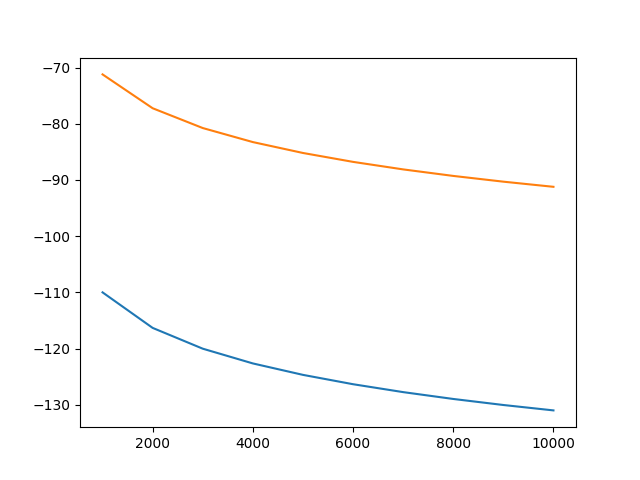
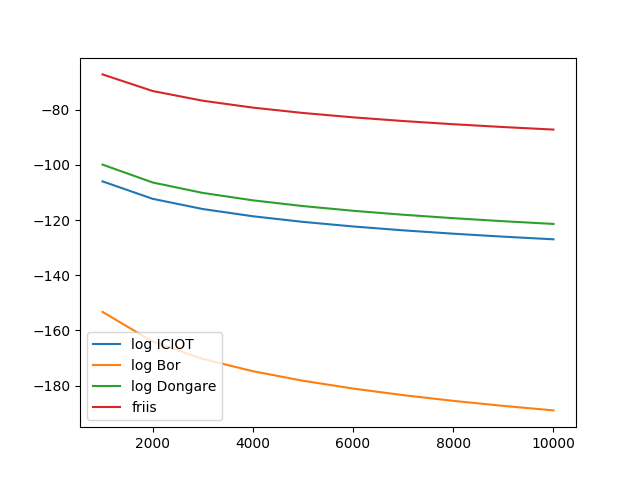
add more log prop models

diff --git a/propagation.py b/propagation.py
@@ -21,7 +21,7 @@ def FreeSpacePathLossModel(**kwargs):
 
 def LogDistancePathLossModel(**kwargs):
 	'''
-	Log Distance Path Loss Model
+	Log Distance Path Loss Model without the uncertainty
 
 	Args:
 		d: distance in m
@@ -29,20 +29,29 @@ def LogDistancePathLossModel(**kwargs):
 	Return:
 		path loss in dB at d
 	'''
-	if kwargs['d'] <= LogDistancePathLossModel.d0:
-		return LogDistancePathLossModel.PL0
-	PL = LogDistancePathLossModel.PL0 + 10 * LogDistancePathLossModel.delta * \
-		math.log10(kwargs['d'] / LogDistancePathLossModel.d0)
+	if kwargs['ver'] == 'ICIOT':
+		# Settings in the ICIOT paper
+		d0 = 1000 # Reference distance in m
+		PL0 = 130 # Reference path loss in dB
+		delta = 2.1 # Path loss exponent
+	elif kwargs['ver'] == 'Bor':
+		# Settings in the paper (Bor 2016) for indoor building
+		d0 = 40 # Reference distance in m
+		PL0 = 127.41 # Reference path loss in dB
+		delta = 3.57 # Path loss exponent
+	elif kwargs['ver'] == 'Dongare':
+		# Settings in Dongare's thesis based on CMU campus measurements
+		d0 = 140 # Reference distance in m
+		PL0 = 105.5729 # Reference path loss in dB
+		delta = 2.1495 # Path loss exponent
+	else:
+		logging.error('Non-supported log propagation model!')
+		return
+	if kwargs['d'] <= d0:
+		return PL0
+	PL = PL0 + 10 * delta * math.log10(kwargs['d'] / d0)
 	return PL
 
-# Settings in the ICIOT paper
-LogDistancePathLossModel.d0 = 1000 # Reference distance in m
-LogDistancePathLossModel.PL0 = 130 # Reference path loss in dB
-LogDistancePathLossModel.delta = 2.1 # Path loss exponent
-# Settings in the IPSN paper (indoor building)
-#LogDistancePathLossModel.d0 = 40 # Reference distance in m
-#LogDistancePathLossModel.PL0 = 127.41 # Reference path loss in dB
-#LogDistancePathLossModel.delta = 3.57 # Path loss exponent
 
 def GetRSSI(Ptx, PL):
 	'''
@@ -58,18 +67,29 @@ def GetRSSI(Ptx, PL):
 	Prx = Ptx + GetRSSI.Gtx + GetRSSI.Grx - PL
 	return Prx
 
-GetRSSI.Gtx = 0 # Transmission antenna gain
-GetRSSI.Grx = 0 # Reception antenna gain
+GetRSSI.Gtx = 2 # Transmission antenna gain
+GetRSSI.Grx = 2 # Reception antenna gain
 
-# Test and tune path loss model's parameter
-'''
-d = [1000, 2000, 3000, 4000, 5000, 6000, 7000, 8000, 9000, 10000]
-loss_log = [LogDistancePathLossModel(d=di) for di in d]
-Prx_log = [GetRSSI(20, lossi) for lossi in loss_log]
-loss_friis = [FreeSpacePathLossModel(d=di, f=868) for di in d]
-Prx_friis = [GetRSSI(20, lossi) for lossi in loss_friis]
-plt.figure()
-plt.plot(d, Prx_log, d, Prx_friis)
-plt.savefig('loss.png')
-plt.show()
-'''
+def main():
+	# Test and tune path loss model's parameter
+	d = [1000, 2000, 3000, 4000, 5000, 6000, 7000, 8000, 9000, 10000]
+	loss_log = [LogDistancePathLossModel(d=di, ver='ICIOT') for di in d]
+	Prx_log_ICIOT = [GetRSSI(20, lossi) for lossi in loss_log]
+	loss_log = [LogDistancePathLossModel(d=di, ver='Bor') for di in d]
+	Prx_log_Bor = [GetRSSI(20, lossi) for lossi in loss_log]
+	loss_log = [LogDistancePathLossModel(d=di, ver='Dongare') for di in d]
+	Prx_log_Dongare = [GetRSSI(20, lossi) for lossi in loss_log]
+	loss_friis = [FreeSpacePathLossModel(d=di, f=868) for di in d]
+	Prx_friis = [GetRSSI(20, lossi) for lossi in loss_friis]
+	plt.figure()
+	plt.plot(d, Prx_log_ICIOT, label='log ICIOT')
+	plt.plot(d, Prx_log_Bor, label='log Bor')
+	plt.plot(d, Prx_log_Dongare, label='log Dongare')
+	plt.plot(d, Prx_friis, label='friis')
+	plt.legend()
+	plt.savefig('loss.png')
+	plt.show()
+
+if __name__ == '__main__':
+	main()
+

diff --git a/main.py b/main.py
@@ -26,6 +26,9 @@ class params:
 	Unit_gw = math.floor(L / (G_x-1)) # Unit length between gw grid points
 	desired_gw_cnt = 10 # Desired gateways to place
 
+	# Version of log propagation model
+	LogPropVer = 'Dongare'
+
 	T = 1200			# Sampling period in s
 	
 	# Spreading Factors options
@@ -59,7 +62,7 @@ class params:
 
 # which algorithm to run
 class run:
-	ICIOT = False
+	ICIOT = True
 
 def GetDist(propFunc, params):
 	'''
@@ -82,7 +85,7 @@ def GetDist(propFunc, params):
 		# start the binary search loop
 		while d_max - d_min > GetDist.epsilon:
 			d_mid = 0.5 * (d_min + d_max)
-			PL = propFunc(d=d_mid, f=868)
+			PL = propFunc(d=d_mid, f=868, ver=params.LogPropVer)
 			RSSI = propagation.GetRSSI(params.Ptx_max, PL)
 			if RSSI > minRSSI: # distance is not long enough
 				d_min = d_mid
@@ -162,6 +165,20 @@ def GetLifetime(SF, Ptx, params):
 	Lifetime = E_bat / P_R_TX                # Lifetime in h
 	return Lifetime / 24 / 365				 # Lifetime in year
 
+def GetPDR(sr_info, G, params):
+	'''
+	Get packet delivery ratio based on the aloha scheme
+	
+	Args:
+		sr_info: sensor placement and configuration
+		G: gateway placement
+		Cij: connection indicator
+		params: important parameters
+
+	Return:
+		PDR: a vector shows the PDR at each sensor i
+	'''
+
 
 
 def plot(sr_info, G):
@@ -215,7 +232,8 @@ def main():
 			loc1 = sr_info[i, :2]
 			loc2 = G[j, :2]
 			dist[i, j] = np.sqrt(np.sum((loc1 - loc2)**2))
-			PL[i, j] = propagation.LogDistancePathLossModel(d=dist[i, j])
+			PL[i, j] = propagation.LogDistancePathLossModel(d=dist[i, j], \
+				ver=params.LogPropVer)
 	# print(PL)
 	
 
